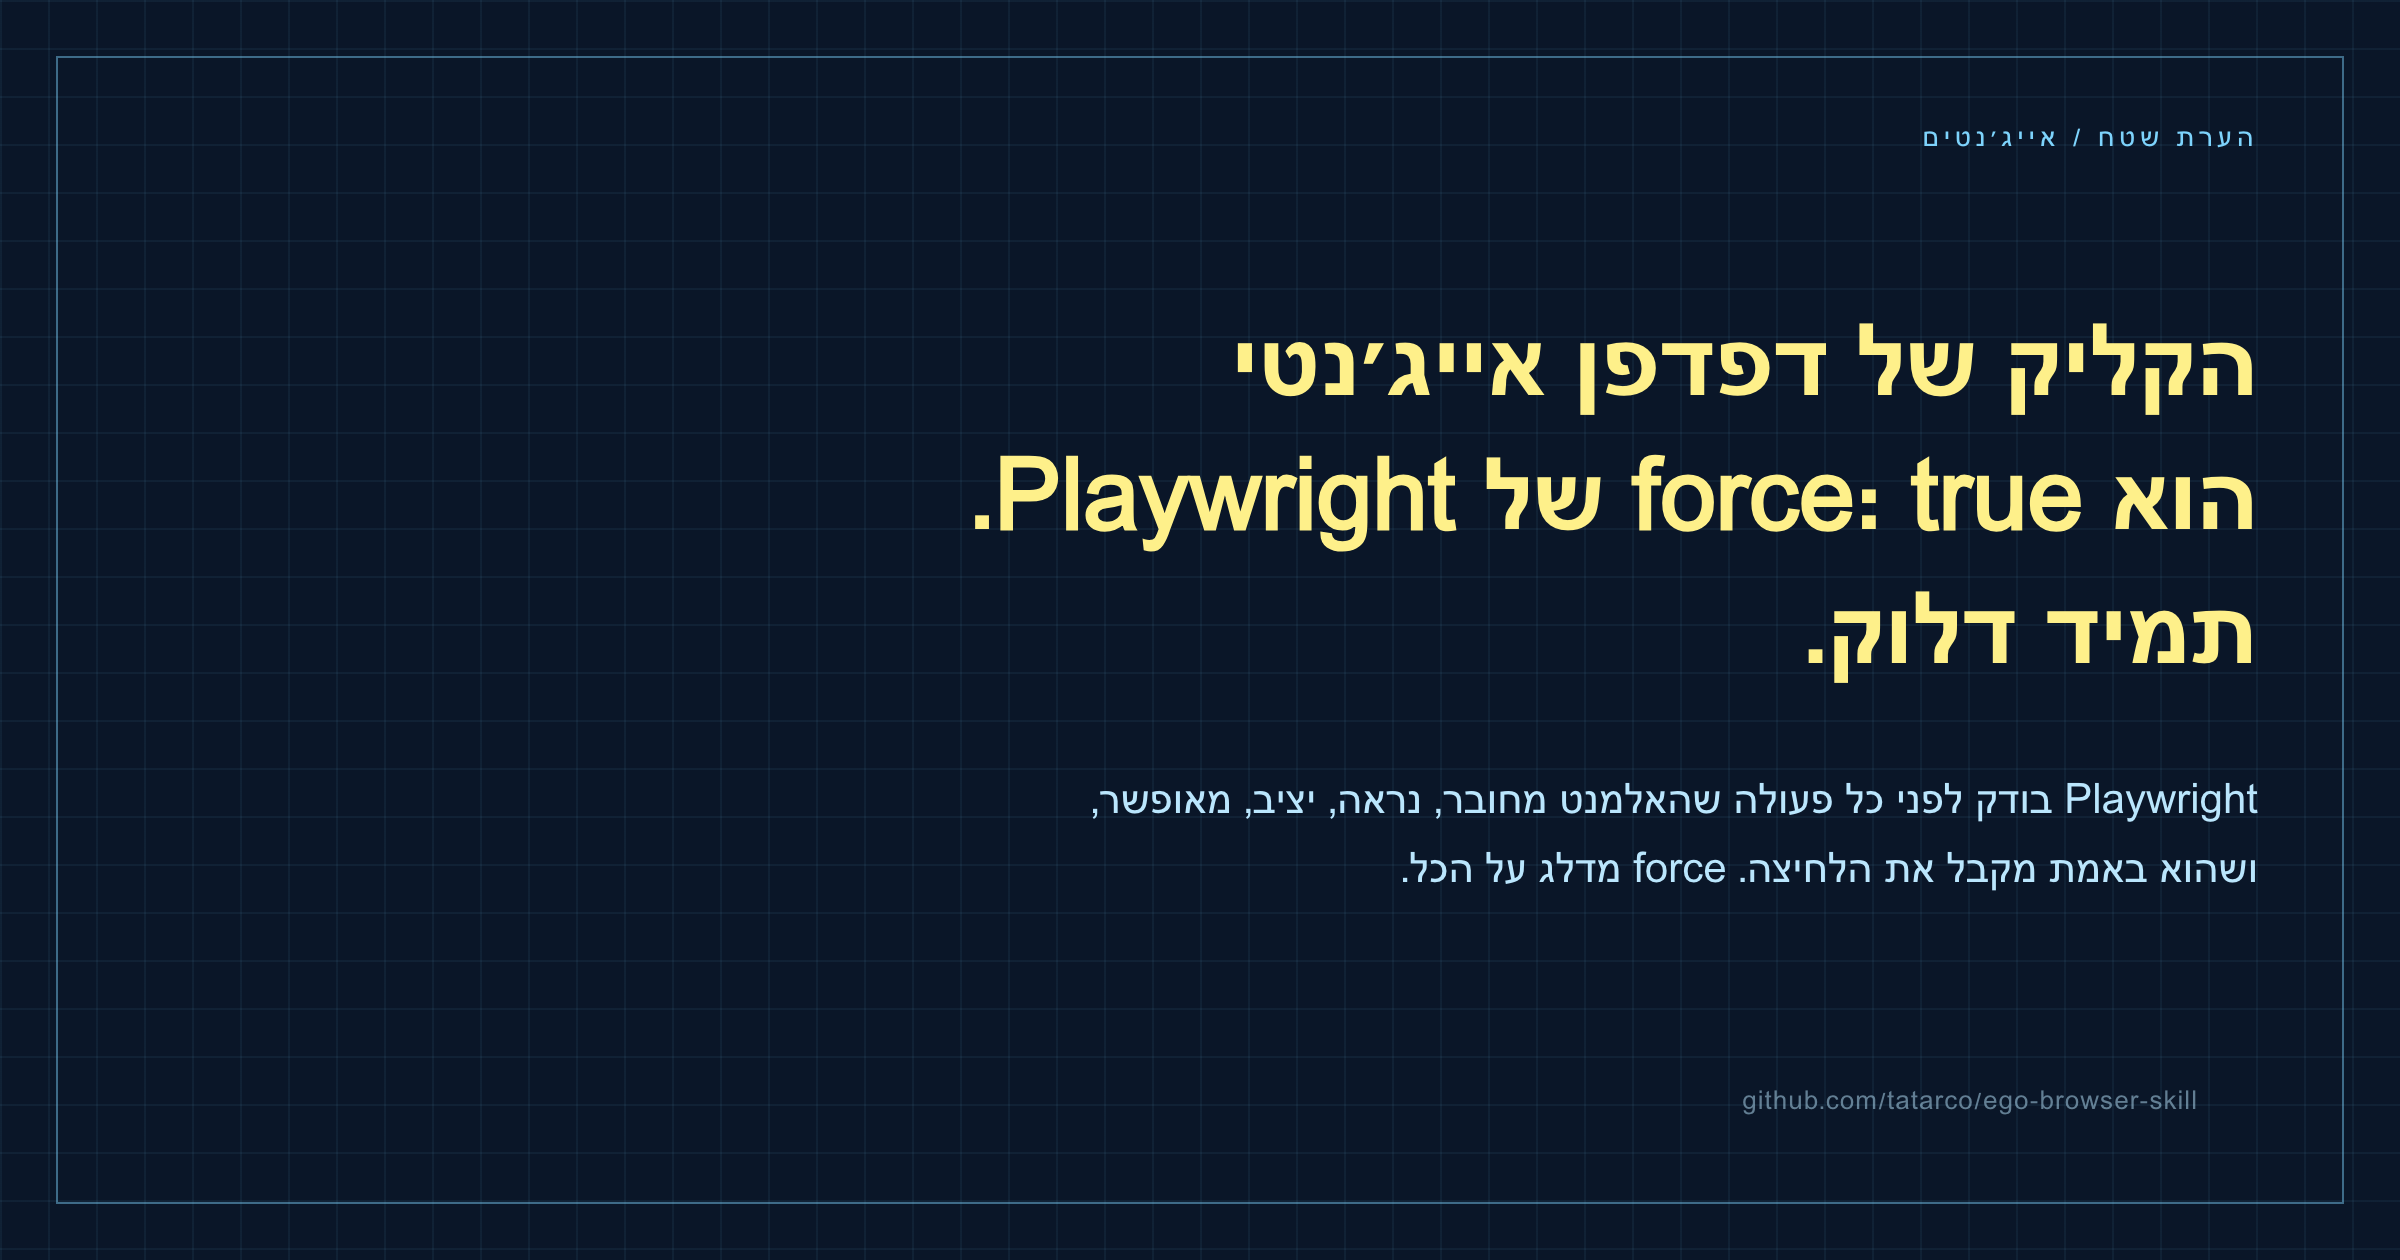
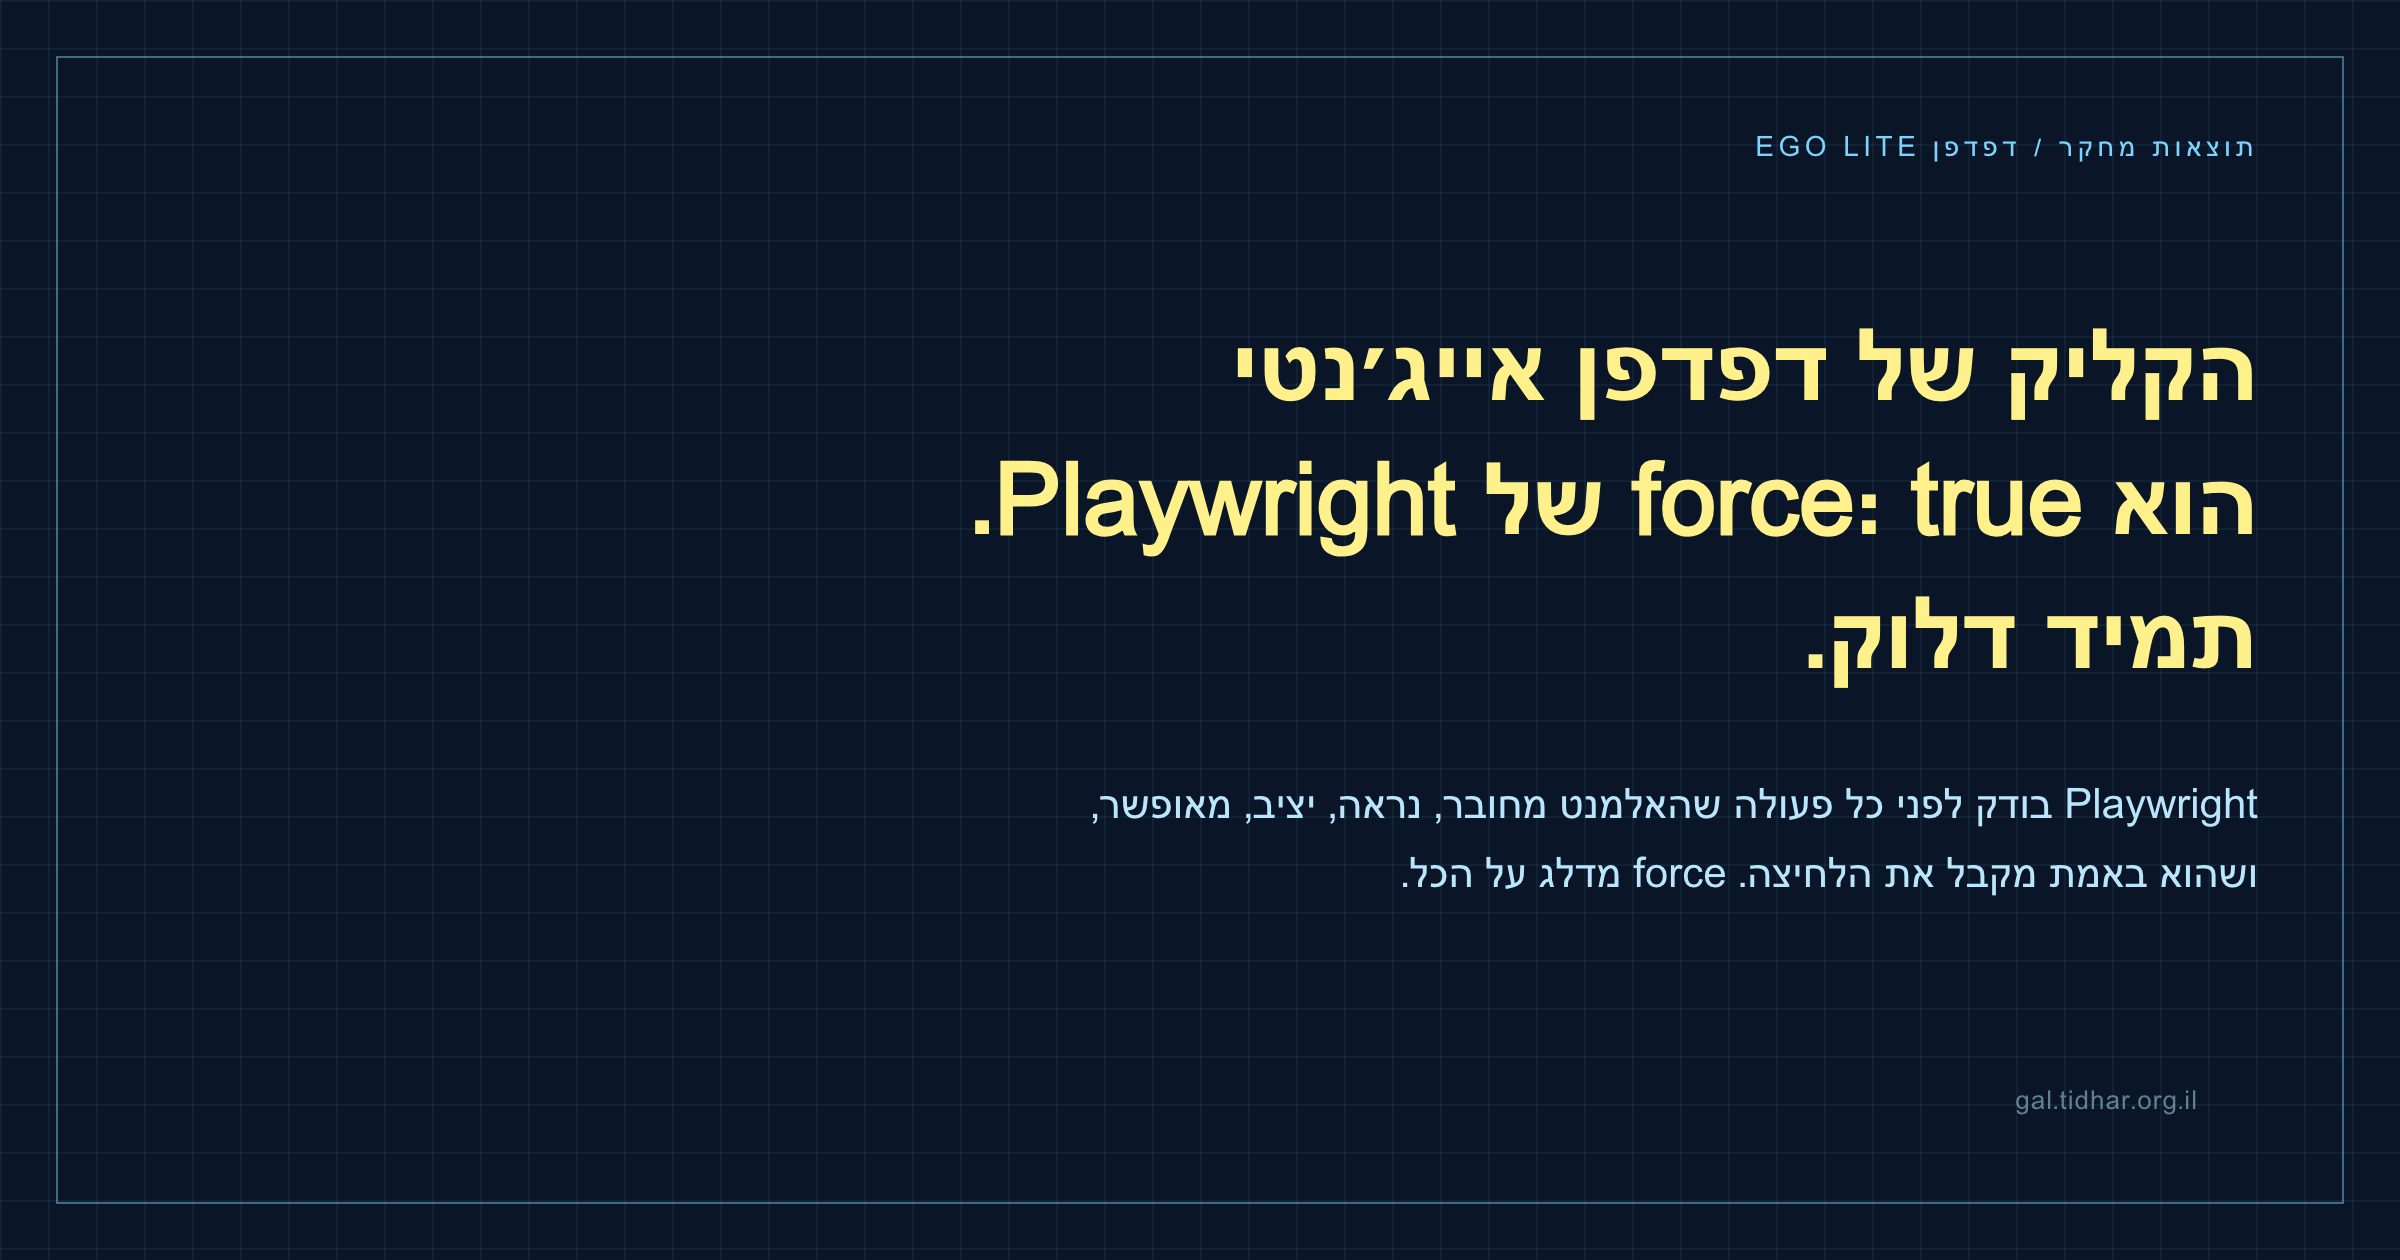
heroes: eyebrow to research-findings, footer to gal.tidhar.org.il

diff --git a/blog/silent-failures/gen.js b/blog/silent-failures/gen.js
@@ -3,7 +3,7 @@ const fs = require('fs'), path = require('path'), OUT = __dirname
 
 const S = {
   en: {
-    dir: 'ltr', eyebrow: 'FIELD NOTE / AGENTS',
+    dir: 'ltr', eyebrow: 'RESEARCH FINDINGS / EGO LITE BROWSER',
     arc: ['One comment asked the right question.', 'I found ghost clicks.', 'So I measured ego lite properly.'],
     arcSub: 'The agent clicks. The page receives nothing. The tool reports success.',
     claim: 'Ghost clicks.',
@@ -28,10 +28,10 @@ const S = {
     fixHead: 'THE FIX: ONE LINE',
     fixCode: 'const before = await js(`window.__clicks`)\nawait click(\'#target\')\nconst after  = await js(`window.__clicks`)\n// after === before  ->  it never landed',
     fixSub: 'Do not ask whether the action succeeded. Ask whether anything changed.',
-    foot: 'github.com/tatarco/ego-browser-skill',
+    foot: 'gal.tidhar.org.il',
   },
   he: {
-    dir: 'rtl', eyebrow: 'הערת שטח / אייג׳נטים',
+    dir: 'rtl', eyebrow: 'תוצאות מחקר / דפדפן ego lite',
     arc: ['תגובה אחת שאלה בדיוק את השאלה הנכונה.', 'מצאתי לחיצות רפאים.', 'אז מדדתי את ego lite ברצינות.'],
     arcSub: 'האייג׳נט לוחץ, הדף לא מקבל כלום, והכלי מדווח שהכל עבר בהצלחה.',
     claim: 'לחיצות רפאים.',
@@ -56,7 +56,7 @@ const S = {
     fixHead: 'התיקון: שורה אחת',
     fixCode: 'const before = await js(`window.__clicks`)\nawait click(\'#target\')\nconst after  = await js(`window.__clicks`)\n// after === before  ->  זה לא נחת',
     fixSub: 'לא לשאול אם הפעולה הצליחה. לשאול אם משהו השתנה.',
-    foot: 'github.com/tatarco/ego-browser-skill',
+    foot: 'gal.tidhar.org.il',
   }
 }
 
